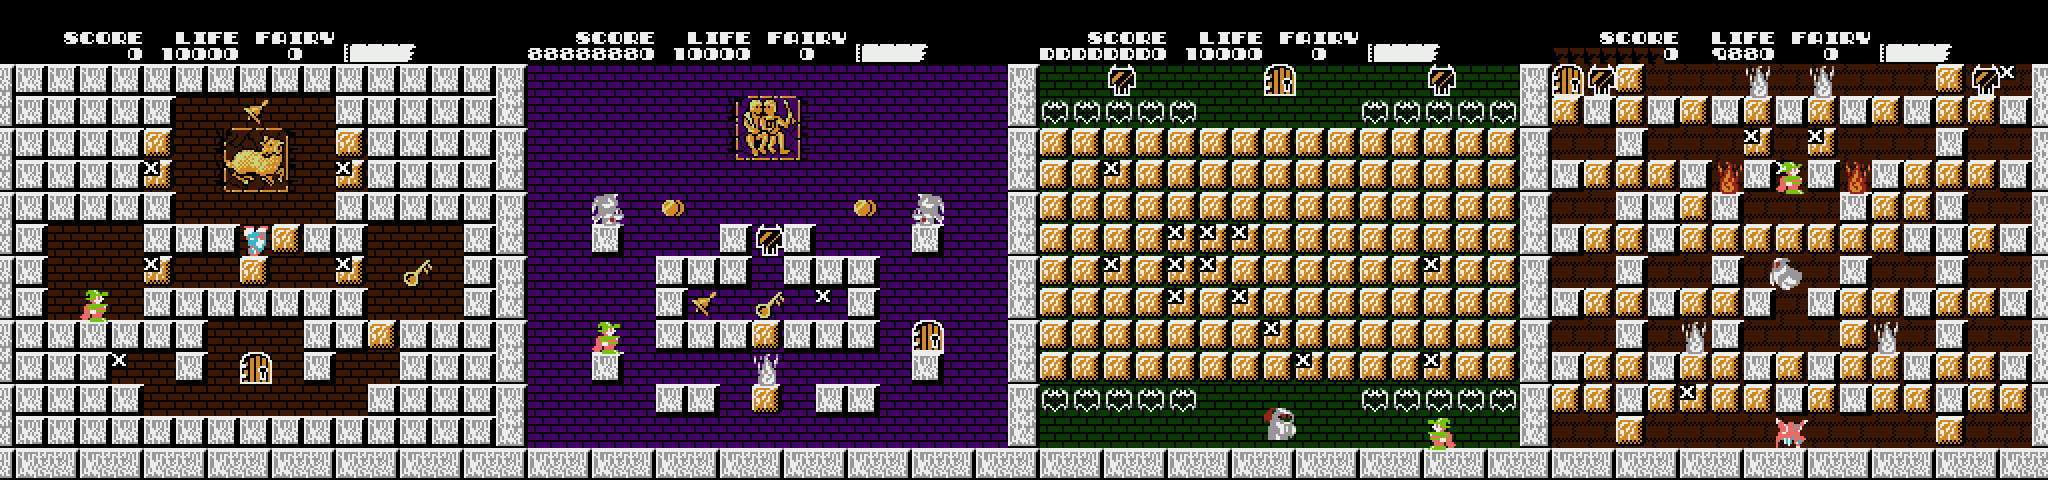
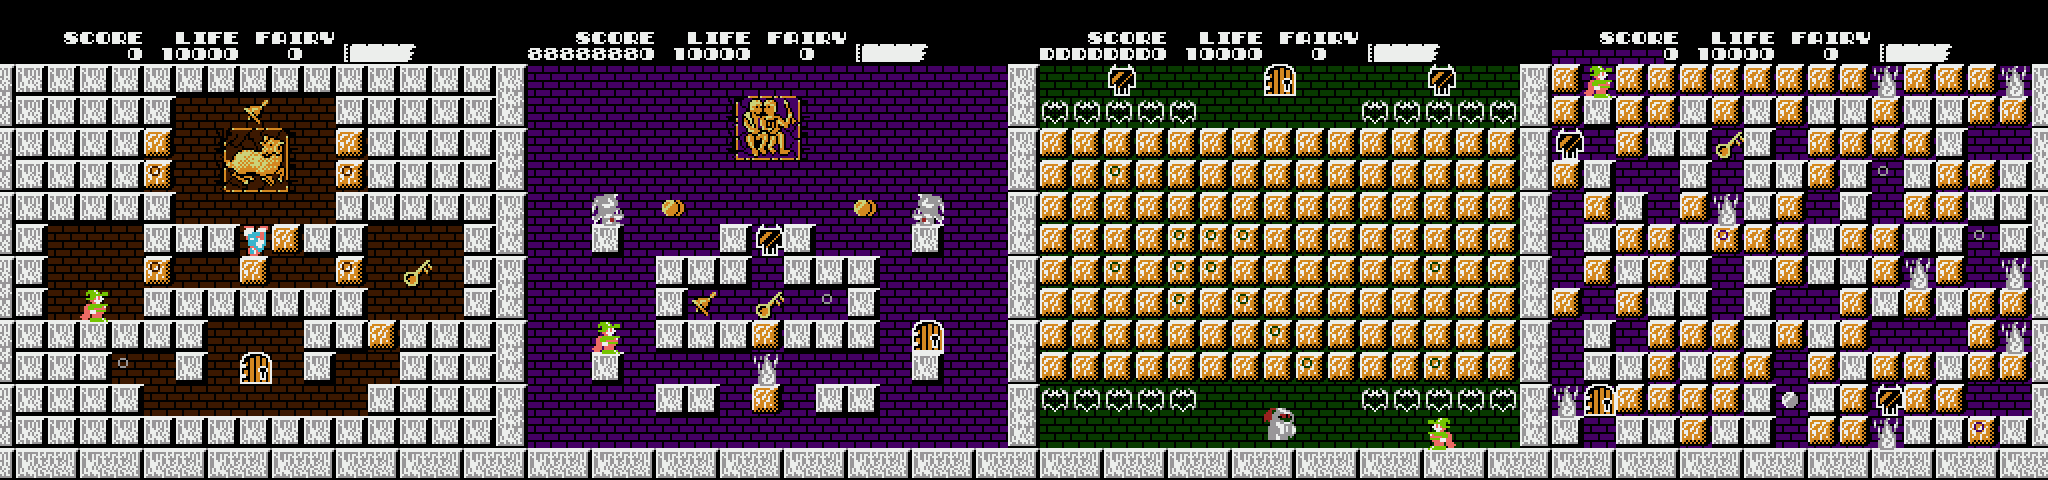
Use subtle ring markers instead of X
Draw ring-marked copies of the background, brown-block and white-block
tiles into spare CHR slots so hints blend into the tile.

Claude-Session: https://claude.ai/code/session_01CcmJXAcTs8Vf1LyyMTvqPL

diff --git a/tools/build.py b/tools/build.py
@@ -1,7 +1,9 @@
-import sys
+import sys,os
+sys.path.insert(0,os.path.dirname(os.path.abspath(__file__)))
+BGC=int(os.environ.get('BGC','2')); BLKC=int(os.environ.get('BLKC','1'))
 from py65.devices.mpu6502 import MPU
 from py65.assembler import Assembler
-SRC=sys.argv[2] if len(sys.argv)>2 else "Solomon's Key (USA).nes"
+SRC="/home/claude/rom/Solomon's Key (USA).nes"
 rom=bytearray(open(SRC,'rb').read())
 def f(a): return a-0x8000+0x10
 mpu=MPU(); asm=Assembler(mpu)
@@ -36,12 +38,20 @@ hook:
  CMP #$40
  BCC chkbj
  CMP #$80
- BCC mark
+ BCC markbg
  AND #$3F
  CMP #$10
  BEQ chkbj
+ BNE mark
+markbg:
+ LDA #$98
+ BNE store
 mark:
- LDA #${MARK:02X}
+ LDA #$25
+ BNE store
+markw:
+ LDA #$27
+store:
  STA $03E9
  RTS
 chkbj:
@@ -52,14 +62,21 @@ chkbj:
  CMP #$10
  BNE nxt
  CPX #$7E
- BEQ mark
+ BEQ bj
 nxt:
  CMP #$27
  BNE done
  CPX #$56
- BEQ mark
+ BEQ bj
 done:
  RTS
+bj:
+ LDA $0304,X
+ CMP #$F8
+ BCS markw
+ CMP #$80
+ BCS mark
+ BCC markbg
 """.splitlines())
 assert all(b in (0,0xff) for b in rom[f(HOOK):f(HOOK)+len(code)])
 rom[f(HOOK):f(HOOK)+len(code)]=code
@@ -67,4 +84,10 @@ rom[f(HOOK):f(HOOK)+len(code)]=code
 assert rom[f(0x96A6):f(0x96A6)+3]==bytes([0x20,0x21,0x9E])
 rom[f(0x96A6)+1:f(0x96A6)+3]=bytes([HOOK&0xff,HOOK>>8])
 out=sys.argv[1] if len(sys.argv)>1 else '/home/claude/work/sk_hints.nes'
+import ring
+ring.apply(rom,BGC,BLKC)
+WHC=1
+for bank in range(3):
+    chr_=bytearray(rom[16+0x8000:])
+    ring.put(chr_,bank,0x27,ring.ringify(ring.get(chr_,bank,0x84),WHC)); rom[16+0x8000:]=chr_
 open(out,'wb').write(rom); print(code.hex(' '), labels)

diff --git a/tools/ring.py b/tools/ring.py
@@ -1,0 +1,27 @@
+import sys
+RING=["........",
+      "........",
+      "........",
+      "....###.",
+      "...#...#",
+      "...#...#",
+      "...#...#",
+      "....###."]
+def get(chr_,bank,t):
+    o=bank*0x2000+0x1000+t*16; d=chr_[o:o+16]
+    return [[((d[r]>>(7-c))&1)|(((d[r+8]>>(7-c))&1)<<1) for c in range(8)] for r in range(8)]
+def put(chr_,bank,t,px):
+    o=bank*0x2000+0x1000+t*16
+    for r in range(8):
+        lo=hi=0
+        for c in range(8):
+            lo|=(px[r][c]&1)<<(7-c); hi|=(px[r][c]>>1)<<(7-c)
+        chr_[o+r]=lo; chr_[o+8+r]=hi
+def ringify(px,color):
+    return [[color if RING[r][c]=='#' else px[r][c] for c in range(8)] for r in range(8)]
+def apply(rom,bg_color,blk_color,bg_tile=0x98,blk_tile=0x25):
+    chr_=bytearray(rom[16+0x8000:])
+    for bank in range(3):
+        put(chr_,bank,bg_tile,ringify(get(chr_,bank,0x2c),bg_color))
+        put(chr_,bank,blk_tile,ringify(get(chr_,bank,0x90),blk_color))
+    rom[16+0x8000:]=chr_

diff --git a/README.md b/README.md
@@ -1,6 +1,6 @@
 # Solomon's Key — Secret Hints (NES)
 
-A small ROM hack for **Solomon's Key (USA)** that puts an **X** on every tile hiding a secret, so you can find hidden items without a guide.
+A small ROM hack for **Solomon's Key (USA)** that puts a small, subtle **ring** on every tile hiding a secret, so you can find hidden items without a guide.
 
 ![Preview](docs/preview.png)
 
@@ -16,7 +16,7 @@ The markers come from the game's own room data as each room is drawn, not from a
 - Chained hidden bonus items stop being marked once you've missed one, because the game stops placing them.
 - Bomb Jack is only marked when the game's own condition for him is met.
 
-Breaking a marked block or making a block on a marked cell redraws the tile normally, and the X goes away.
+Breaking a marked block or making a block on a marked cell redraws the tile normally, and the ring goes away.
 
 ## Applying
 
@@ -24,23 +24,27 @@ Apply `patch/Solomons_Key_Secret_Hints.ips` with Flips, Lunar IPS or RomPatcher.
 
 | | CRC32 (without header) |
 |---|---|
-| Patched PRG+CHR | `3B38C80B` |
+| Patched PRG+CHR | `C405119F` |
 
 ## How it works
 
-- The room bulk-draw routine at `$9661` calls `$9E21` to build each 16×16 cell's tile buffer. The patch redirects that call (`$96A6`) to a 58-byte routine placed in unused PRG space at `$B500`.
+- The room bulk-draw routine at `$9661` calls `$9E21` to build each 16×16 cell's tile buffer. The patch redirects that call (`$96A6`) to a small routine placed in unused PRG space at `$B500`.
 - The routine reads the cell from the room map (`$0304 + pos`):
   - `$40–$7F`: hidden item revealed by make-and-break.
   - `$80–$F7` with low 6 bits ≠ `$10`: brown block containing an item.
   - Bomb Jack cells: level `$10` pos `$7E`, level `$27` pos `$56`, gated on `$7C & $10` like the game's own scripts.
-- For a marked cell, it swaps the cell's top-left tile for the existing `X` glyph (tile `$98`).
-- No CHR data is modified.
+- For a marked cell, it swaps the cell's top-left tile for a ring-marked copy of that tile. The ring sits near the cell's center and leaves the rest of the tile intact.
+- The ring tiles are drawn into three BG tiles that are unused during gameplay, in CHR banks 0–2:
+  - `$98`: background bricks with a gray ring.
+  - `$25`: brown block with a dark ring.
+  - `$27`: white block with a dark ring (used for Bomb Jack in round 17).
 
 ## Tools
 
 `tools/` holds the Python scripts used for research and building:
 
 - `build.py`: assembles the hook and writes a patched ROM (needs `py65`). Usage: `python build.py out.nes "Solomon's Key (USA).nes"`
+- `ring.py`: generates the ring-marked CHR tiles. Ring colors can be changed with the `BGC` and `BLKC` environment variables (palette index 0–3).
 - `ips.py`: makes an IPS from the original and patched ROMs.
 - `parse.py`: dumps per-level item data.
 - `d65.py`: quick 6502 disassembler.
